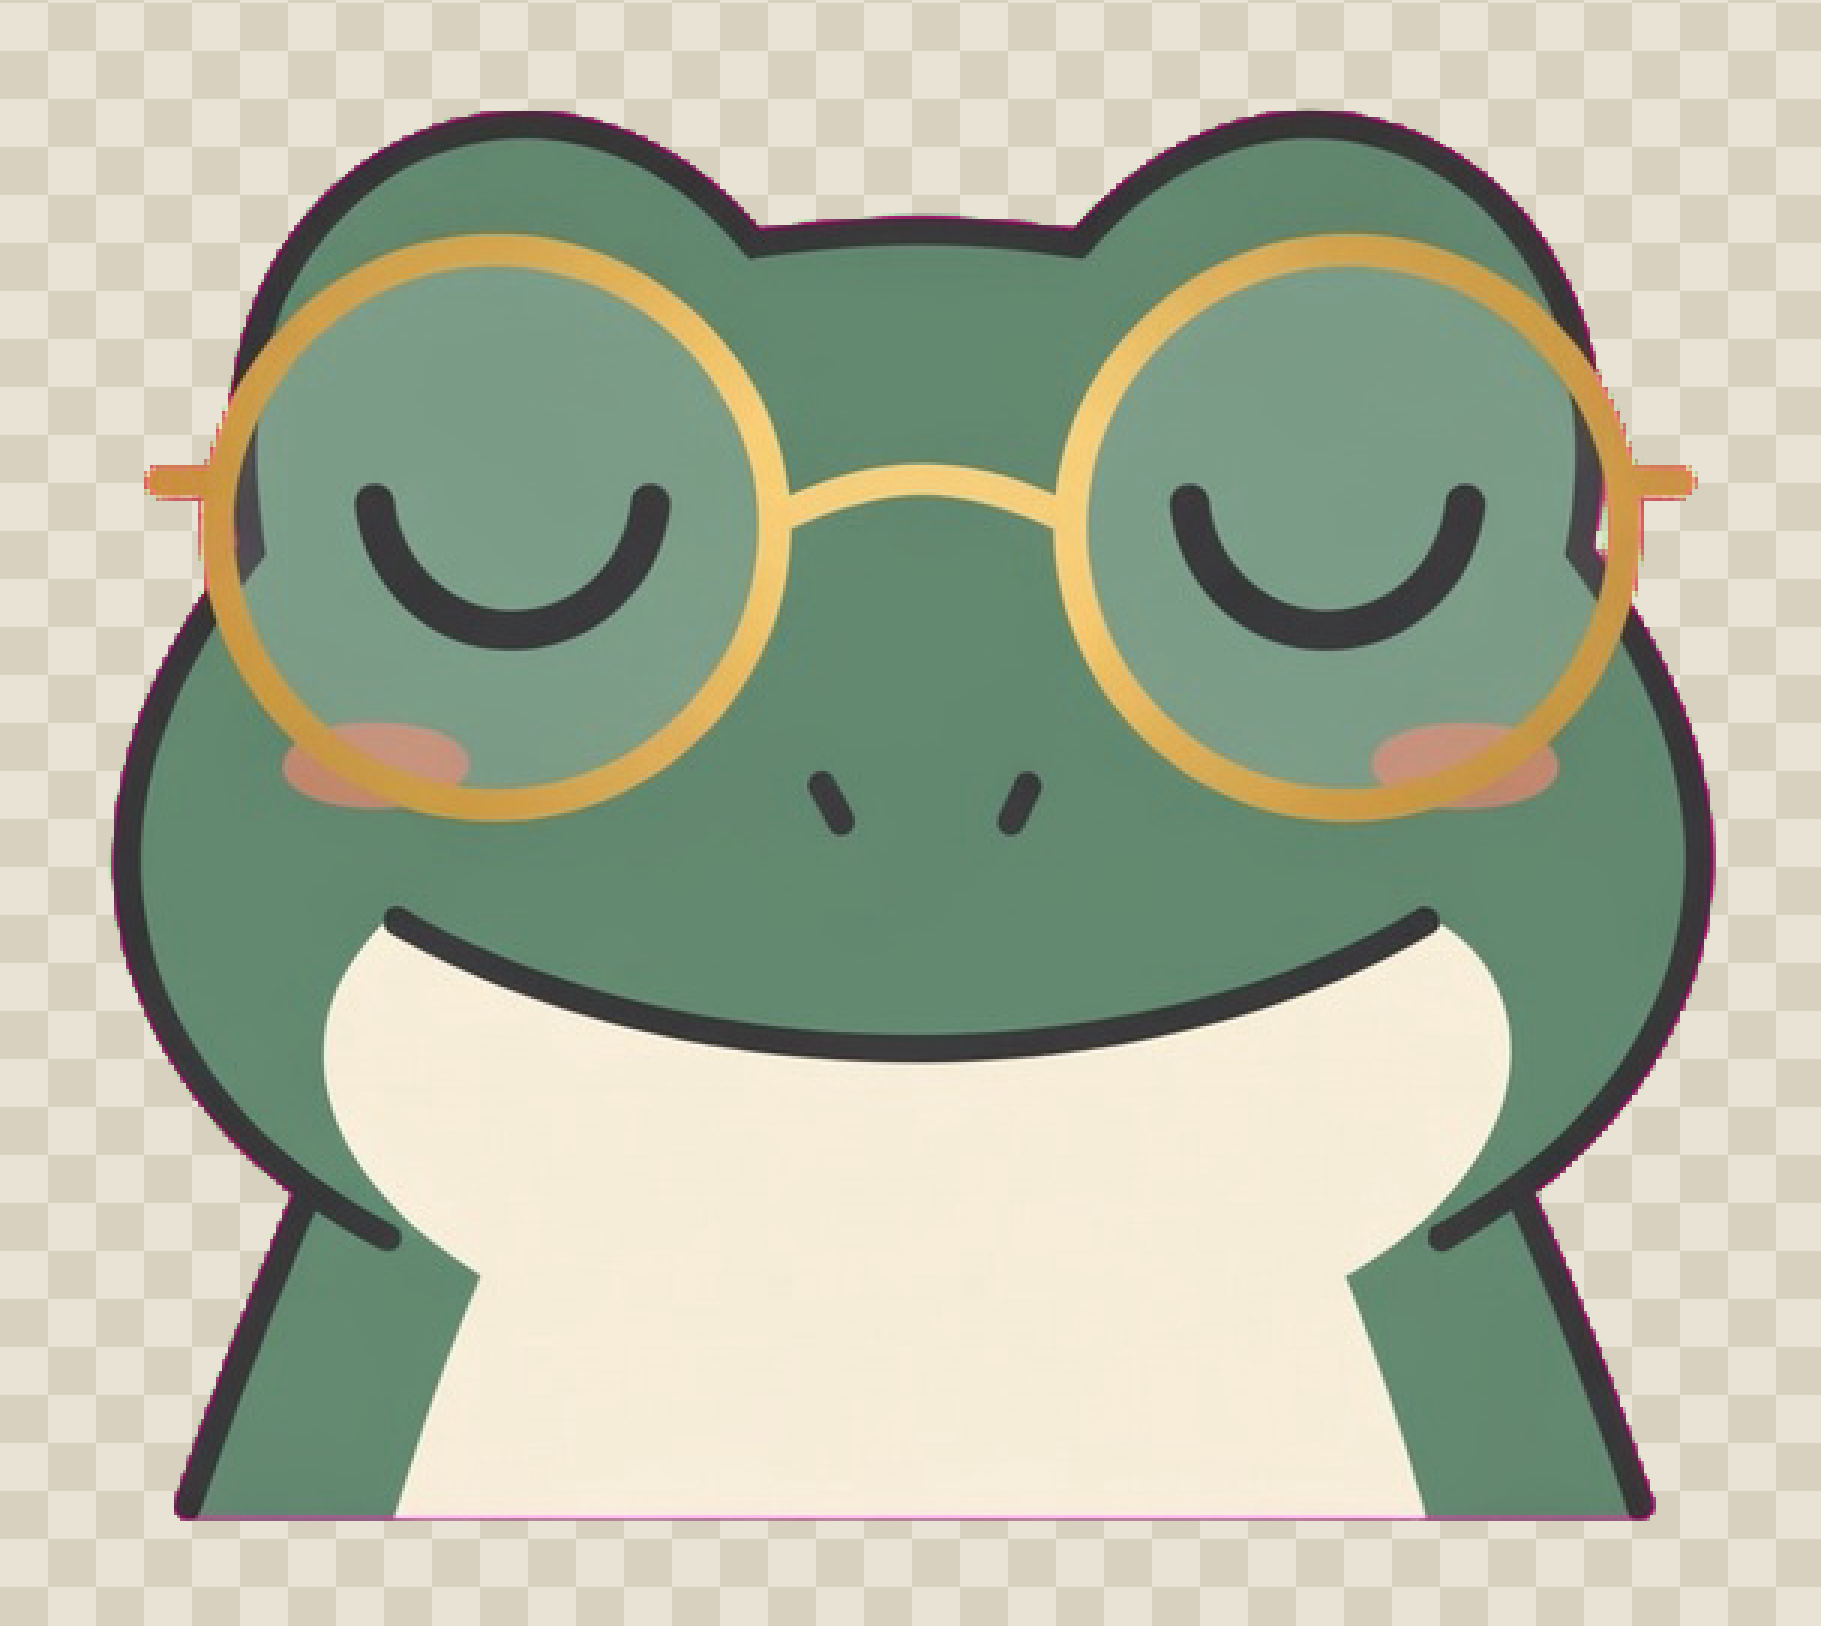
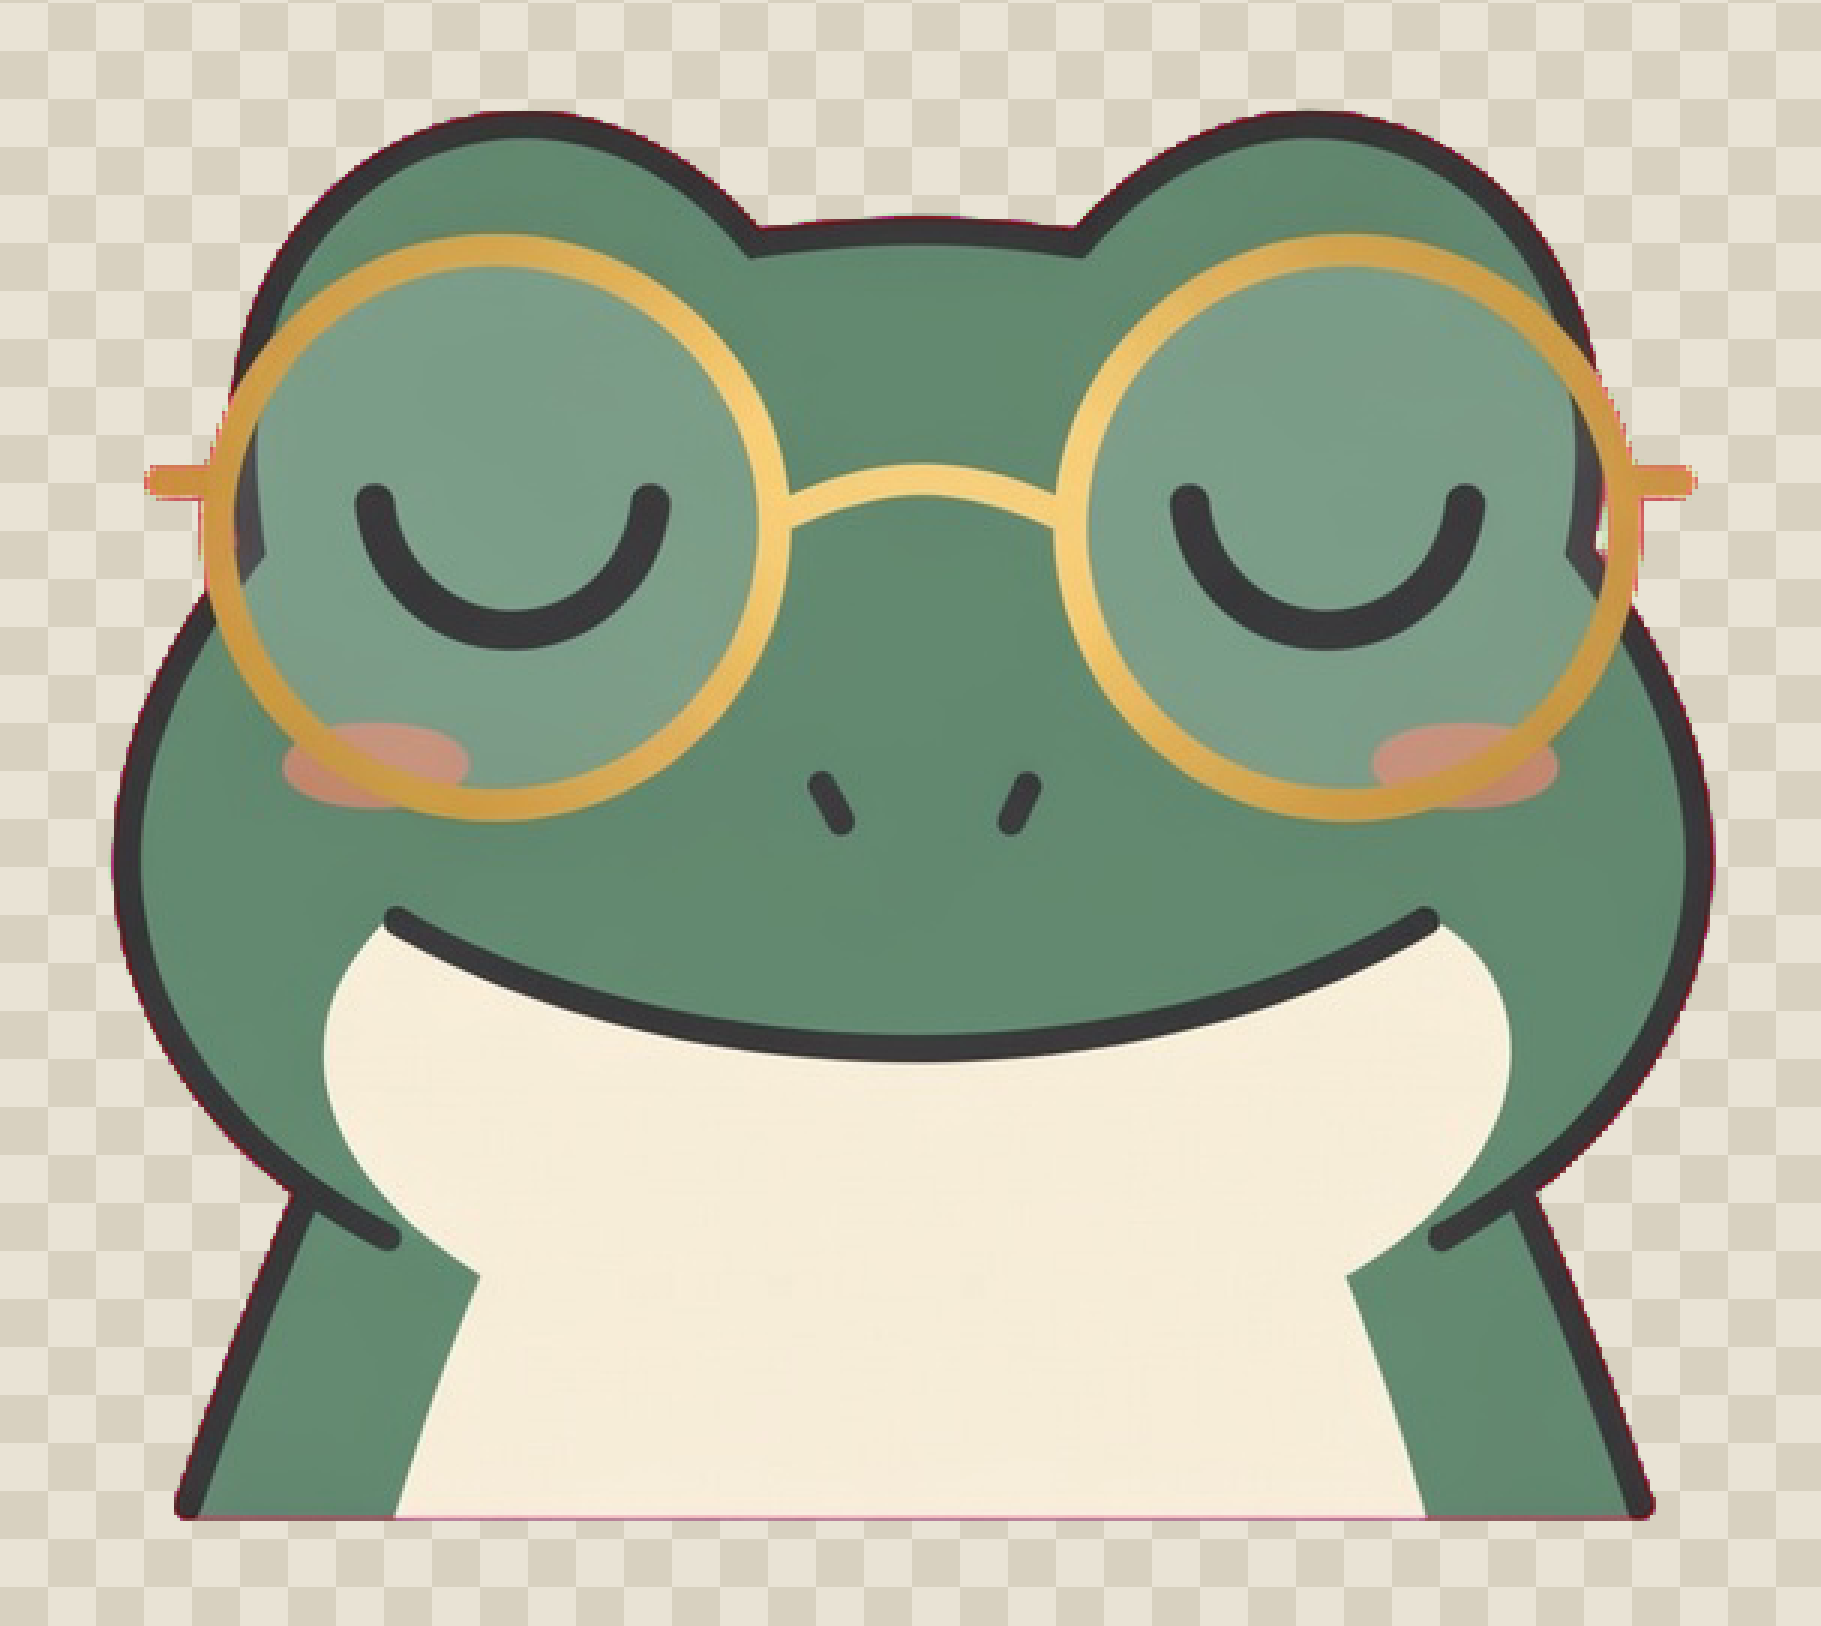
Edit tools/key-magenta.js

Changed region(s): [[0.0923, 0.9225, 0.2153, 0.9533], [0.7996, 0.9225, 0.8918, 0.9533], [0.3998, 0.123, 0.4305, 0.1538]]

diff --git a/_hub.html b/_hub.html
@@ -391,13 +391,13 @@
             <a href="_hub.html" class="file-card" target="_blank">
               <span class="file-icon">📄</span>
               <span class="file-name">_hub.html</span>
-              <span class="file-meta">23.5 KB</span>
+              <span class="file-meta">25.7 KB</span>
             </a>
           
             <a href="_portal.html" class="file-card" target="_blank">
               <span class="file-icon">📄</span>
               <span class="file-name">_portal.html</span>
-              <span class="file-meta">17.0 KB</span>
+              <span class="file-meta">18.7 KB</span>
             </a>
           
             <a href="index.html" class="file-card" target="_blank">
@@ -415,6 +415,12 @@
         <h3>⚡ Code</h3>
         <div class="file-grid">
           
+            <a href="tools/key-magenta.js" class="file-card" target="_blank">
+              <span class="file-icon">⚡</span>
+              <span class="file-name">tools/key-magenta.js</span>
+              <span class="file-meta">3.3 KB</span>
+            </a>
+          
             <a href="tools/fringe-diag.js" class="file-card" target="_blank">
               <span class="file-icon">⚡</span>
               <span class="file-name">tools/fringe-diag.js</span>
@@ -431,12 +437,6 @@
               <span class="file-icon">⚡</span>
               <span class="file-name">tools/inspect-alpha.js</span>
               <span class="file-meta">2.5 KB</span>
-            </a>
-          
-            <a href="tools/key-magenta.js" class="file-card" target="_blank">
-              <span class="file-icon">⚡</span>
-              <span class="file-name">tools/key-magenta.js</span>
-              <span class="file-meta">2.8 KB</span>
             </a>
           
             <a href="tools/inspect-png.js" class="file-card" target="_blank">
@@ -588,6 +588,24 @@
             
               <li>
                 <span>⚡</span>
+                <a href="tools/key-magenta.js" target="_blank">tools/key-magenta.js</a>
+                <span class="file-size">3.3 KB</span>
+              </li>
+            
+              <li>
+                <span>📄</span>
+                <a href="_hub.html" target="_blank">_hub.html</a>
+                <span class="file-size">25.7 KB</span>
+              </li>
+            
+              <li>
+                <span>📄</span>
+                <a href="_portal.html" target="_blank">_portal.html</a>
+                <span class="file-size">18.7 KB</span>
+              </li>
+            
+              <li>
+                <span>⚡</span>
                 <a href="tools/fringe-diag.js" target="_blank">tools/fringe-diag.js</a>
                 <span class="file-size">1.4 KB</span>
               </li>
@@ -623,18 +641,6 @@
               </li>
             
               <li>
-                <span>📄</span>
-                <a href="_hub.html" target="_blank">_hub.html</a>
-                <span class="file-size">23.5 KB</span>
-              </li>
-            
-              <li>
-                <span>📄</span>
-                <a href="_portal.html" target="_blank">_portal.html</a>
-                <span class="file-size">17.0 KB</span>
-              </li>
-            
-              <li>
                 <span>⚡</span>
                 <a href="tools/composite.js" target="_blank">tools/composite.js</a>
                 <span class="file-size">2.3 KB</span>
@@ -656,12 +662,6 @@
                 <span>🖼</span>
                 <a href="images/frog-face.png" target="_blank">images/frog-face.png</a>
                 <span class="file-size">426.2 KB</span>
-              </li>
-            
-              <li>
-                <span>⚡</span>
-                <a href="tools/key-magenta.js" target="_blank">tools/key-magenta.js</a>
-                <span class="file-size">2.8 KB</span>
               </li>
             
               <li>

diff --git a/tools/key-magenta.js b/tools/key-magenta.js
@@ -62,13 +62,16 @@ for (let i = 0; i < data.length; i += 4) {
     G = Math.max(0, Math.min(255, Math.round((g - t * bgG) * inv)));
     B = Math.max(0, Math.min(255, Math.round((b - t * bb) * inv)));
   } else if (a === 255 && d < 240) {
-    // despill opaque JPEG-ringing fringe: magenta fingerprint is B > G.
-    // The frog's own palette (sage/cream/clay/gold/charcoal) always has B <= G,
-    // so pulling the blue excess back to a warm neutral can't touch legit colors.
-    const spill = b - g - 8;
-    if (spill > 0) {
-      B = Math.round(g + spill * 0.10);
-      R = Math.max(0, Math.min(255, Math.round(r - spill * 0.30)));
+    // despill opaque JPEG-ringing fringe. Magenta/pink contamination lifts R and B
+    // relative to G; the frog's legit palette (sage/cream/clay/gold/charcoal)
+    // always keeps B clearly BELOW G, and green-dominant colors keep R below G.
+    // So: B not clearly below G  AND  R not clearly below G  => contaminated.
+    const bAboveG = (b - g) > -10;
+    const rAboveG = (r - g) > -5;
+    if (bAboveG && rAboveG) {
+      const strength = Math.max(0.15, Math.min(1, (b - g + 10) / 50));
+      B = Math.round(g - 14 * strength);
+      R = Math.round(g + 18 * strength);
     }
   }
   out[i] = R; out[i+1] = G; out[i+2] = B; out[i+3] = a;
